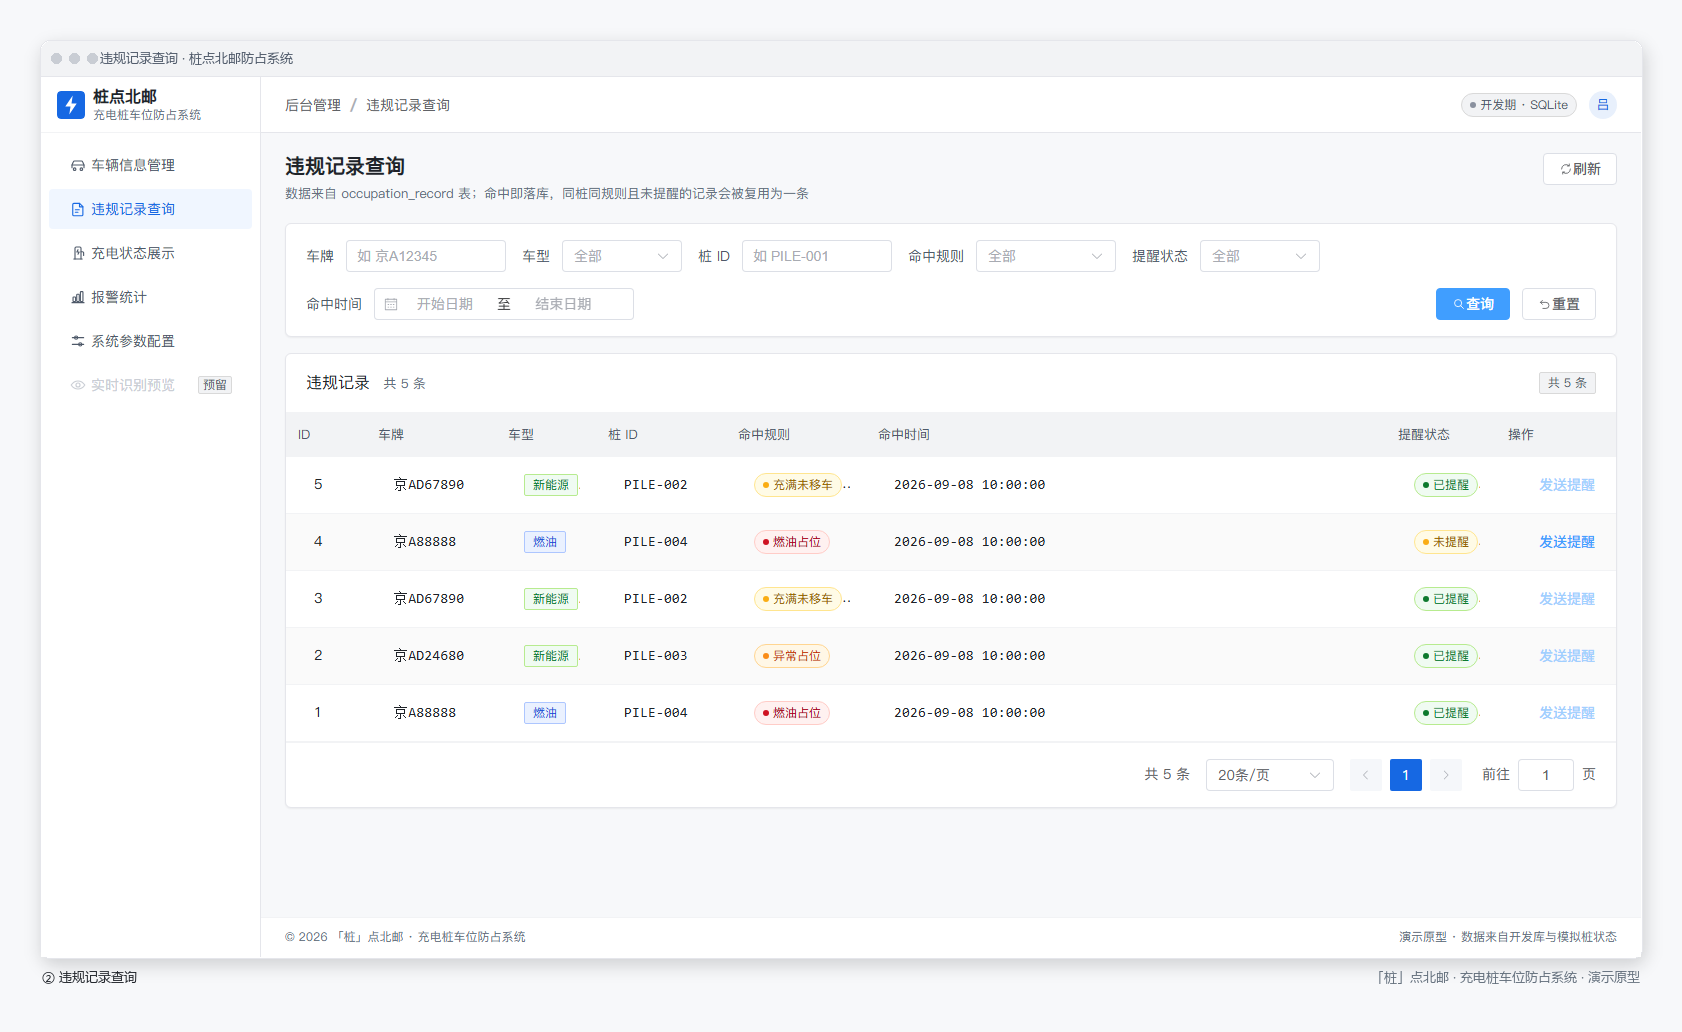
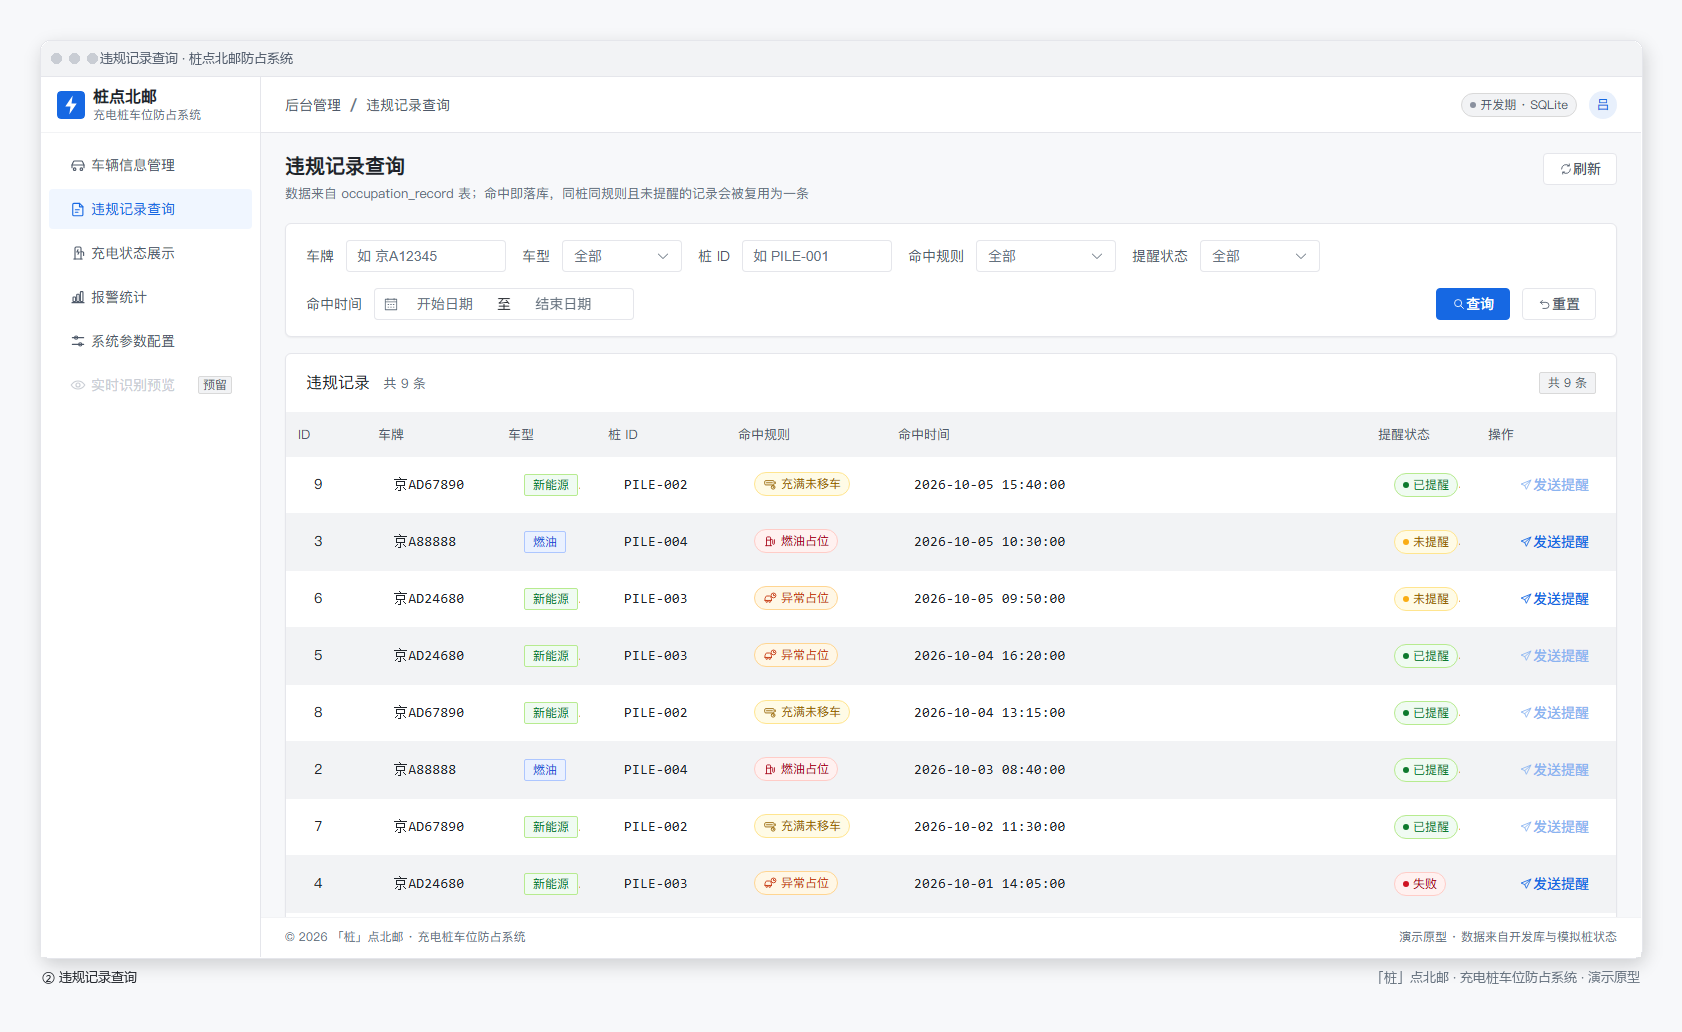
design: 6.10 答辩截图补齐至 7 组 + 演示数据脚本
mission 6.10「答辩素材第一版」缺口补齐（吴和庆）。

- 新增 docs/design/tools/demo_seed.py：一律走契约端点产生数据
  （POST /api/recognize → /api/judge → /api/notify），不直连数据库、不改 SQL、
  不用前端 mock；一次产生 9 条记录，覆盖规则① ② ③ 与「未提醒 / 已提醒 / 失败」三态，
  含幂等说明与种子绑定对照表
- demo_screenshots.py 由 3 组扩到 7 组：
  p1-vehicle / p2-records 走真实页面；p3-piles / p4-statistics / p5-config
  走 week2-preview 开发夹具拍**有数据**画面（夹具与真实页在文件命名与说明中区分，
  不冒充真实联调）；p6-preview 为真实预留页；另含 login 登录页
- 无头虚拟时间预算 8000 → 10000，避免懒加载组件未挂载导致内容区空白
- 重拍第 1 页：原图是旧 localStorage 版本，不代表当前 /api/vehicles 实现
- 原件视口统一 1600×880；raw/ 是交付物组成部分（缺失即 check_tokens 变红）
- 车牌按约定不打码，demo/README.md 中记录数据方法、画面来源与隐私口径

check_tokens.py 第 [6] 项：7 组截图配对与尺寸校验通过，原图尺寸统一 1600x880。

diff --git a/docs/design/tools/demo_seed.py b/docs/design/tools/demo_seed.py
@@ -1,0 +1,121 @@
+"""答辩素材用的演示数据生成器（配合 `demo_screenshots.py`，第 2 周任务 6.10）。
+
+为什么需要它
+------------------------------------------------------------------------
+`demo_screenshots.py` 拍的是**真实运行的界面**，所以第 1/2 页必须先有数据可看。
+第 1 页（车辆）有种子数据，第 2 页（违规记录）**没有** —— 契约里违规记录只能由
+`/api/judge` 命中后落库，库里默认是空的（种子不写 `occupation_record`）。
+
+于是这里按契约端点把闭环跑一遍：
+
+    POST /api/recognize  →  POST /api/judge  →  POST /api/notify
+
+三条硬约束（与 `walkthrough.md` 的纪律一致）：
+  1. **不直连数据库、不改 SQL、不动前端 mock** —— 只打契约端点，走系统自己的口径；
+  2. 记录的 `occur_time` 取自 `/api/judge` 的 `frame_time`（引擎定义「判定时刻」的方式），
+     所以**不需要改系统时钟**就能造出跨越几天的记录；
+  3. 提醒状态用 `/api/notify` 改，不手改字段 —— 这样第 2 页三种状态都有真实来源。
+
+用法（仓库根目录，后端已起）：
+    python docs/design/tools/demo_seed.py
+    python docs/design/tools/demo_seed.py --base http://127.0.0.1:8000
+
+⚠ 幂等性说明：引擎对「同一桩 + 同一规则 + **仍未提醒**」的记录会复用（不新增行）。
+   因此重复执行本脚本会按「新违规」口径**追加**记录。想要干净的一套数据，
+   先停后端、删掉开发库 `backend/app.db`（gitignore 的可再生产物）、再重启后端
+   （启动时自动建表 + 灌种子），然后跑本脚本。
+"""
+
+from __future__ import annotations
+
+import argparse
+import os
+import sys
+
+import httpx
+
+# 本机服务不吃代理 —— 与 scripts/e2e_check.py 同一条纪律（否则 URL 会被代理重写）
+os.environ["NO_PROXY"] = "*"
+os.environ["no_proxy"] = "*"
+
+# 车牌 → 桩 的绑定来自后端种子（backend/sql/schema.sql），不能自造：
+#   • 京A88888  燃油   → PILE-004 空闲    → 规则① 燃油车占位
+#   • 京AD24680 新能源 → PILE-003 空闲    → 规则② 异常占位（久停 > abnormal_park_min）
+#   • 京AD67890 新能源 → PILE-002 已充满  → 规则③ 充满未移车（充满 > full_timeout_min）
+# `frame_time` 就是引擎眼中的「现在」，故用不同的 frame_time 造出跨越几天的记录。
+DEMO: list[tuple[str, str, str, str]] = [
+    ("京A88888", "燃油", "2026-10-01T09:12:00", "已提醒"),
+    ("京A88888", "燃油", "2026-10-03T08:40:00", "已提醒"),
+    ("京A88888", "燃油", "2026-10-05T10:30:00", ""),
+    ("京AD24680", "新能源", "2026-10-01T14:05:00", "失败"),
+    ("京AD24680", "新能源", "2026-10-04T16:20:00", "已提醒"),
+    ("京AD24680", "新能源", "2026-10-05T09:50:00", ""),
+    ("京AD67890", "新能源", "2026-10-02T11:30:00", "已提醒"),
+    ("京AD67890", "新能源", "2026-10-04T13:15:00", "已提醒"),
+    ("京AD67890", "新能源", "2026-10-05T15:40:00", "已提醒"),
+]
+
+BBOX = [96, 280, 452, 356]
+
+
+def main() -> int:
+    ap = argparse.ArgumentParser(description="生成答辩素材用的演示数据（走契约端点）")
+    ap.add_argument("--base", default="http://127.0.0.1:8000", help="后端地址")
+    args = ap.parse_args()
+    base = args.base.rstrip("/")
+
+    with httpx.Client(timeout=15) as client:
+        try:
+            health = client.get(f"{base}/api/health")
+            health.raise_for_status()
+        except httpx.HTTPError as exc:
+            sys.exit(f"后端不可达 {base} —— {exc}\n请先起后端：cd backend && uvicorn app.main:app --port 8000")
+
+        print("后端 %s / api/health = %s" % (base, health.json()))
+
+        created: list[str] = []
+        for plate, vtype, frame_time, notify in DEMO:
+            payload = {
+                "plate": plate,
+                "vtype": vtype,
+                "confidence": 0.97,
+                "bbox": BBOX,
+                "frame_time": frame_time,
+            }
+            r = client.post(f"{base}/api/judge", json=payload)
+            if r.status_code != 200:
+                sys.exit(f"judge 失败 {r.status_code}：{r.text[:200]}")
+            record = r.json()
+            if record is None:
+                sys.exit(f"{plate} @ {frame_time} 判定为规则④（正常），不落库 —— 请检查种子绑定")
+            rid = record["id"]
+            status_text = "未提醒（不调 notify）"
+            if notify:
+                nr = client.post(f"{base}/api/notify", json={"id": rid, "notify_status": notify})
+                if nr.status_code != 200:
+                    sys.exit(f"notify 失败 {nr.status_code}：{nr.text[:200]}")
+                status_text = notify
+            print(
+                "  + id=%-3s %-10s %-9s %-7s rule_hit=%s  %s"
+                % (rid, record["plate"], record["pile_id"], record["occur_time"][:16], record["rule_hit"], status_text)
+            )
+            created.append(str(rid))
+
+        page = client.get(f"{base}/api/records", params={"page": 1, "size": 20}).json()
+        print("\n本次涉及记录 id：%s" % ", ".join(created))
+        print("records 总数：%s" % page["total"])
+        for item in page["items"]:
+            print(
+                "  id=%-3s rule_hit=%s %-9s %-7s %s"
+                % (item["id"], item["rule_hit"], item["plate"], item["pile_id"], item["notify_status"])
+            )
+
+    print(
+        "\n提醒：手机号由前端 maskPhone 脱敏；**车牌按「不打码」口径执行**（walkthrough §11 的 R9 决策）。"
+        "\n下一步：python docs/design/tools/demo_screenshots.py"
+    )
+    return 0
+
+
+if __name__ == "__main__":
+    raise SystemExit(main())

diff --git a/docs/design/tools/demo_screenshots.py b/docs/design/tools/demo_screenshots.py
@@ -15,11 +15,23 @@
 颜色一律从 `docs/design/tokens.css` **读**出来（不是抄进来），
 所以设备框不会随令牌改版而变成过期配色 —— 同 `check_tokens.py` 的思路。
 
-前置：后端 `uvicorn app.main:app --port 8000`、前端 `npm run dev` 已起。
+前置：后端 `uvicorn app.main:app --port 8000`、前端 `npm run dev` 已起；
+第 2 页要有数据可看，先跑 `demo_seed.py` 走一遍「识别 → 判定 → 提醒」闭环。
 本机浏览器用 Edge（Chromium 内核，同 Chrome 的无头截图参数）。
 
+第 3/4/5 页取的是什么画面
+------------------------------------------------------------------------
+契约 **C1–C3**（`/api/piles`、`/api/stats`、`/api/config`）尚未交付，正常启动下这三页
+只会显示「数据待接入」+ 空态 —— 拍出来作为答辩素材没有信息量。所以这三页走仓库自带的
+**开发夹具**入口 `frontend/tests/week2-preview.html`（`src/test/week2Preview.ts`，
+**不进生产入口**）：真实浏览器、真实组件、夹具数据。夹具数据自带辨识特征
+（桩 ID `TEST-00x`、横轴 `测试日 N`），第 3 页另有「充电状态为模拟数据」提示条，
+**图注也标明「开发夹具数据」**，不与真实服务器数据混淆。
+接口交付后把这三行的路由换回 `/piles`、`/statistics`、`/config` 重跑即可。
+
 ⚠ 脱敏：手机号在页面里已由前端 `maskPhone` 处理（`138****6621`）；
-   车牌是否脱敏口径未定（`walkthrough.md` §9.6 的 R9），脚本会在末尾提醒。
+   车牌按 **「不打码」** 口径执行（`walkthrough.md` §11 的 R9 决策：车牌是业务主键，
+   打码后无法核对记录）。若后续吕浩改为打码，改这里并重跑，不要手改 PNG。
 """
 
 from __future__ import annotations
@@ -44,12 +56,34 @@ FRONTEND = "http://localhost:5173"
 # 不留大片空白（1000 高时底部约 1/4 是空的，进 PPT 很难看）。
 VIEWPORT = (1600, 880)
 
-# 只拍「已真实实现」的页面。第 3/4/5/6 页在 main 上仍是占位路由
-# （每个 16–25 行，内容为「开发中」），拍出来进不了答辩材料，
-# 故不拍 —— 等页面落地后把它们加进这张表即可（这也是脚本存在的意义）。
+# 6 页 + 登录页。第 3/4/5 页走开发夹具入口（见模块开头说明）。
 PAGES: list[tuple[str, str, str, str]] = [
     ("p1-vehicle", "/vehicle", "① 车辆信息管理", "车辆信息管理 · 桩点北邮防占系统"),
     ("p2-records", "/records", "② 违规记录查询", "违规记录查询 · 桩点北邮防占系统"),
+    (
+        "p3-piles",
+        "/tests/week2-preview.html#/piles",
+        "③ 充电状态展示（开发夹具数据）",
+        "充电状态展示 · 桩点北邮防占系统（开发夹具数据）",
+    ),
+    (
+        "p4-statistics",
+        "/tests/week2-preview.html#/statistics",
+        "④ 报警统计（开发夹具数据）",
+        "报警统计 · 桩点北邮防占系统（开发夹具数据）",
+    ),
+    (
+        "p5-config",
+        "/tests/week2-preview.html#/config",
+        "⑤ 系统参数配置（开发夹具数据）",
+        "系统参数配置 · 桩点北邮防占系统（开发夹具数据）",
+    ),
+    (
+        "p6-preview",
+        "/preview",
+        "⑥ 实时识别预览（预留页 · 第 3 周实现）",
+        "实时识别预览 · 桩点北邮防占系统（预留页）",
+    ),
     ("login", "/login", "登录页（任务 6.6）", "登录 · 桩点北邮防占系统"),
 ]
 
@@ -124,7 +158,8 @@ def shoot(browser: str, name: str, route: str, profile: Path) -> Path:
         "--window-size=%d,%d" % VIEWPORT,
         # SPA 的关键：不加虚拟时间预算，截图会早于懒加载路由组件就绪，
         # 结果是「骨架渲染了、内容区空白」——第 2 周真踩过这个坑。
-        "--virtual-time-budget=8000",
+        # 10000 而不是 8000：第 4 页要多等 ECharts 初始化 + 主题令牌读取。
+        "--virtual-time-budget=10000",
         "--screenshot=%s" % target,
         FRONTEND + route,
     ]
@@ -274,7 +309,9 @@ def main() -> int:
             print("  框 %-14s %dx%d → %s" % (name, *out.size, dst.relative_to(ROOT)))
 
     print("\n完成。输出目录：%s" % OUT_DIR.relative_to(ROOT))
-    print("提醒：手机号已由页面 maskPhone 脱敏；**车牌是否脱敏**口径未定，见 walkthrough.md §9.6 的 R9。")
+    print("提醒：手机号已由页面 maskPhone 脱敏；车牌按「不打码」口径执行（walkthrough §11 的 R9）。")
+    print("提醒：第 3/4/5 页取自开发夹具（docs/design/tools/demo_seed.py + tests/week2-preview.html），")
+    print("      图注已标注；契约 C1–C3 交付后改回真实路由重拍。")
     return 0
 
 
